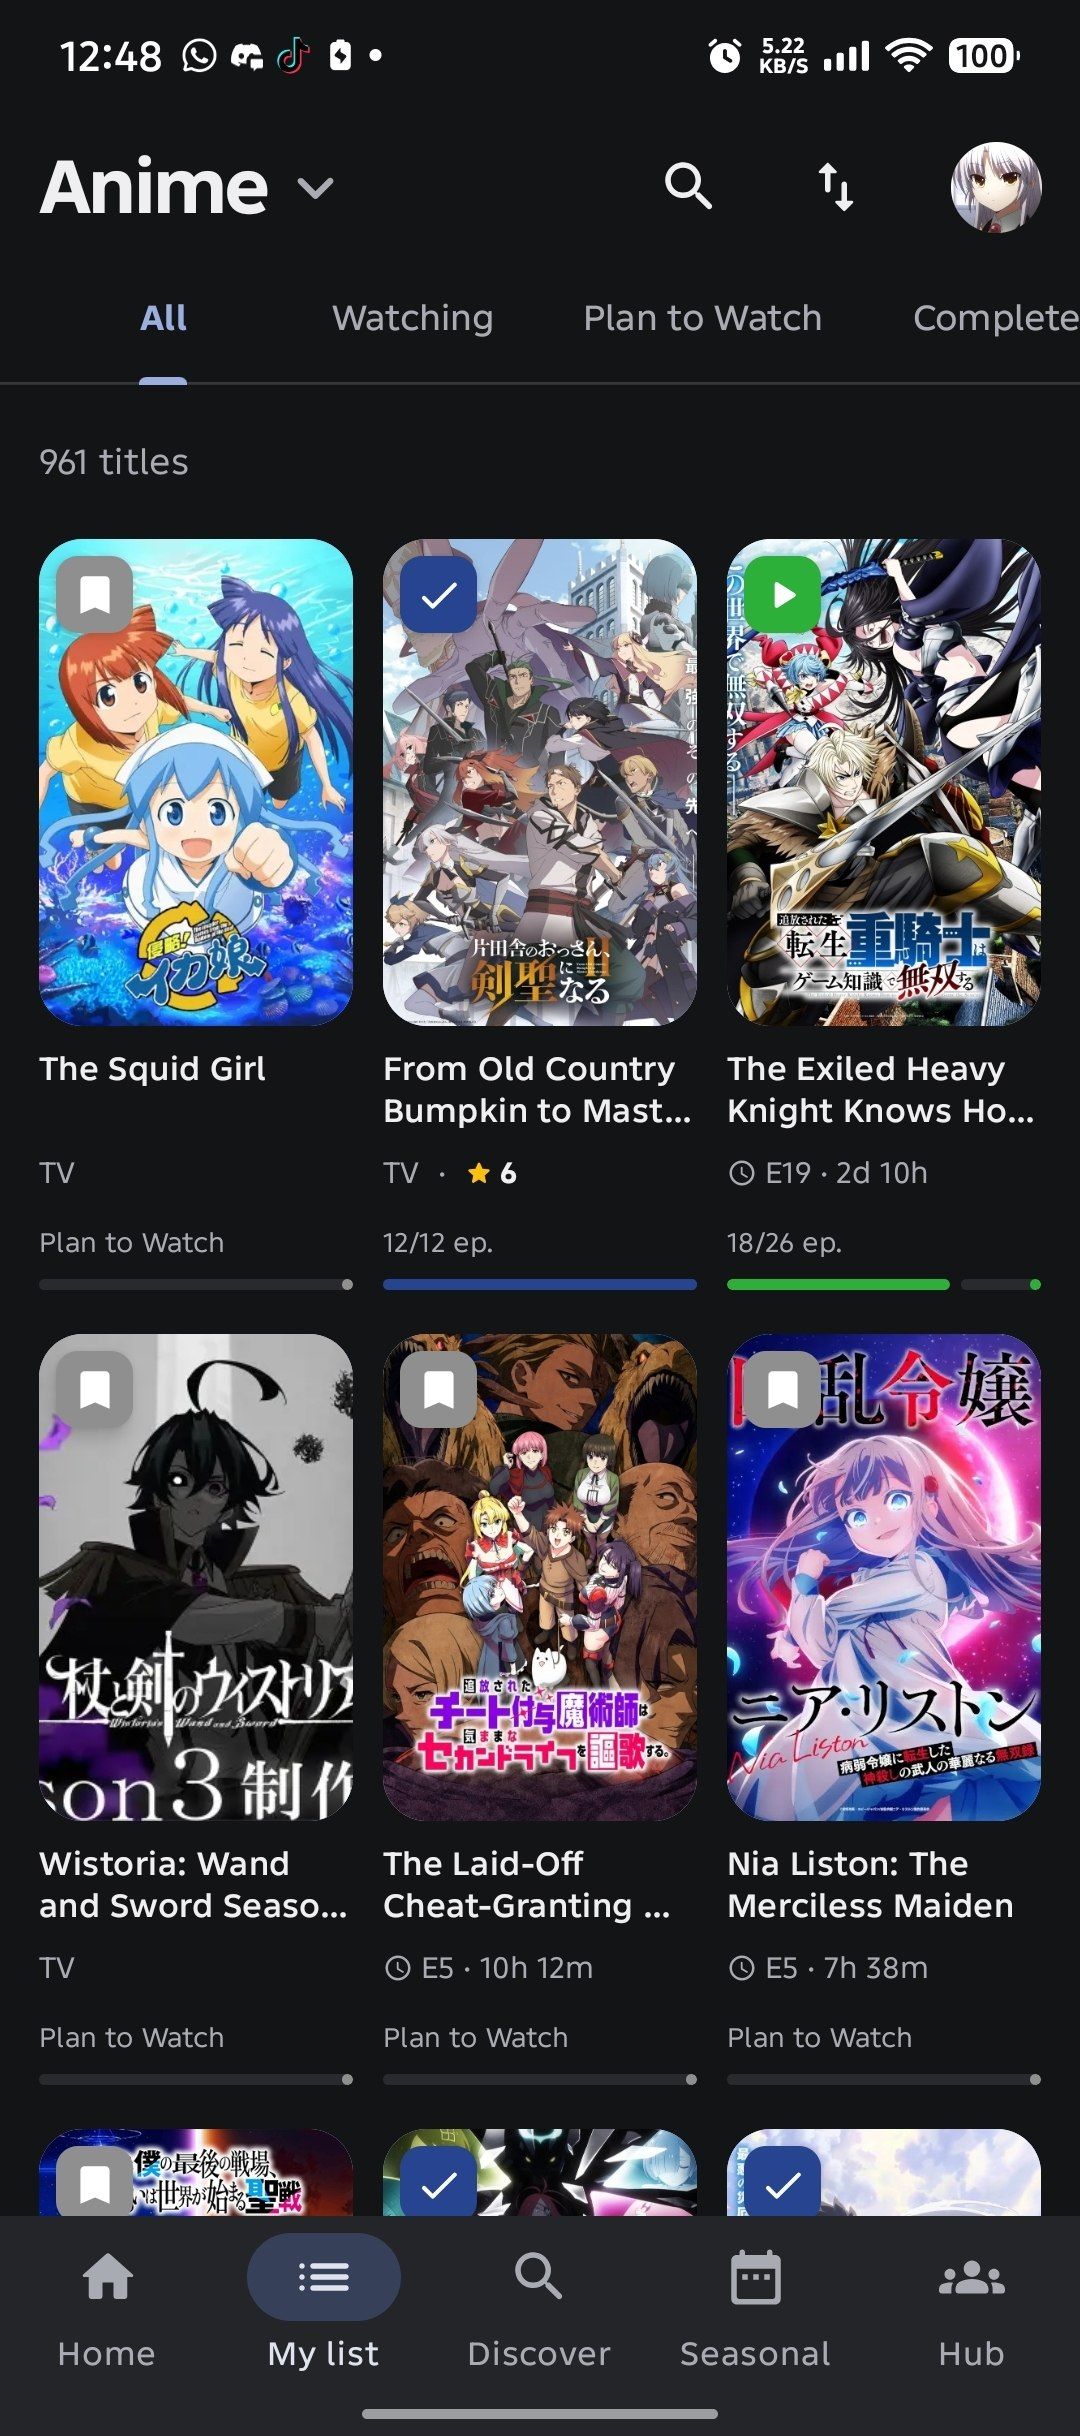
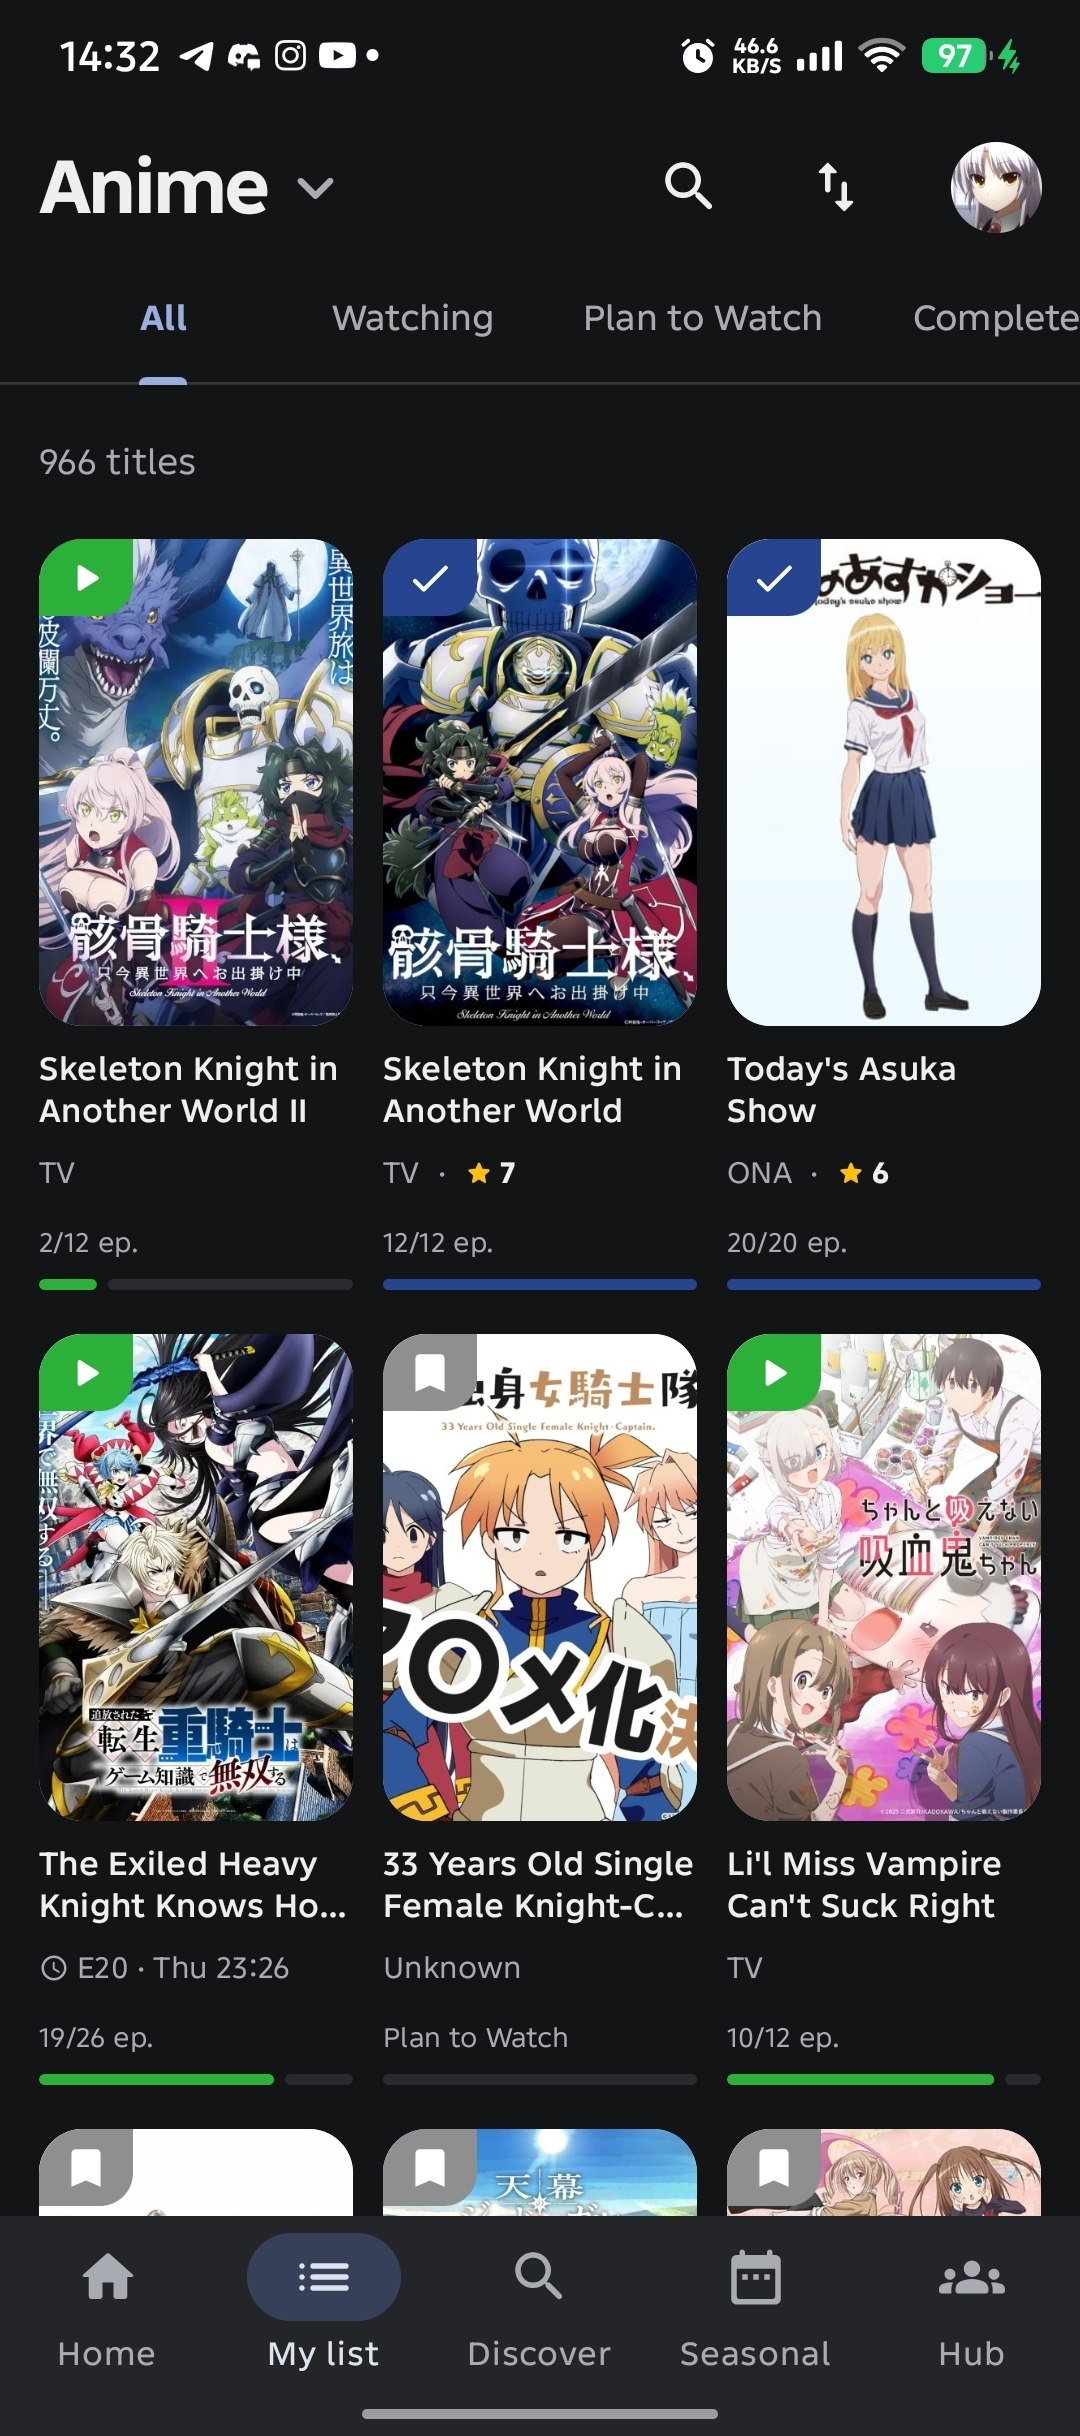
Updated README.md and index.html. Updated About page with new, usable links and added website option.

diff --git a/docs/index.html b/docs/index.html
@@ -226,13 +226,15 @@
     .p-season .ph-a   { --w:24.5; --x:69; --y:7; --r:6; --z:3; }
     /* 4 · Title details */
     .p-title .ring    { --c:var(--blue);   --w:62; --x:-8; --y:-6; }
-    .p-title .cookie  { --c:var(--blue);   --w:36; --x:8;  --y:18; }
-    .p-title .ph-a    { --w:27; --x:13; --y:7; --r:-4; --z:2; }
-    .p-title .st-a    { --x:2;  --y:12; --r:-9; --sb:var(--blue-soft); --sf:#0f1d45; }
-    .p-title .st-b    { --x:40; --y:9;  --r:7;  --sb:var(--mint);      --sf:#052a1d; }
-    .p-title .st-c    { --x:1;  --y:30; --r:6;  --sb:var(--butter);    --sf:#2c2000; }
-    .p-title .st-d    { --x:42; --y:27; --r:-7; --sb:var(--coral);     --sf:#3b0f05; }
-    .p-title .st-e    { --x:33; --y:43; --r:5;  --sb:var(--lav);       --sf:#24114f; }
+    .p-title .cookie  { --c:var(--blue);   --w:40; --x:6;  --y:16; }
+    .p-title .ph-a    { --w:23; --x:5;  --y:8;  --r:-5; --z:2; }
+    .p-title .ph-b    { --w:23; --x:27; --y:15; --r:4;  --z:3; }
+    .p-title .st-a    { --x:1;  --y:8;  --r:-9; --sb:var(--blue-soft); --sf:#0f1d45; }
+    .p-title .st-b    { --x:17; --y:2;  --r:6;  --sb:var(--mint);      --sf:#052a1d; }
+    .p-title .st-c    { --x:0;  --y:36; --r:6;  --sb:var(--butter);    --sf:#2c2000; }
+    .p-title .st-d    { --x:41; --y:6;  --r:-7; --sb:var(--coral);     --sf:#3b0f05; }
+    .p-title .st-e    { --x:11; --y:44; --r:5;  --sb:var(--lav);       --sf:#24114f; }
+    .p-title .st-f    { --x:43; --y:27; --r:-6; --sb:#fff;             --sf:var(--blue); }
     /* 5 · Community */
     .p-community .flower { --c:var(--butter); --w:44; --x:56; --y:-14; }
     .p-community .dot    { --c:var(--blue);   --w:13; --x:88; --y:-4; }
@@ -303,12 +305,14 @@
       .p-title { --sh:106; }
       .p-title .ring   { --w:120; --x:-10; --y:-12; }
       .p-title .cookie { --w:76; --x:12; --y:28; }
-      .p-title .ph-a   { --w:60; --x:20; --y:10; }
+      .p-title .ph-a   { --w:60; --x:36; --y:6;  --z:3; }
+      .p-title .ph-b   { --w:46; --x:-4; --y:18; --r:-4; --z:2; }
       .p-title .st-a   { --x:2;  --y:6; }
       .p-title .st-b   { --x:66; --y:12; }
-      .p-title .st-c   { --x:2;  --y:48; }
+      .p-title .st-c   { --x:2;  --y:56; }
       .p-title .st-d   { --x:72; --y:46; }
       .p-title .st-e   { display:none; }
+      .p-title .st-f   { --x:4;  --y:84; }
 
       .p-community { --sh:106; }
       .p-community .flower { --w:84; --x:18; --y:-16; }
@@ -440,16 +444,18 @@
             <span class="tag">Title details</span>
             <h3 id="p4">Every detail, one page.</h3>
             <p class="desc">Synopsis, characters, staff, reviews, recommendations and more. All this without jumping between pages!</p>
-            <ul class="chips"><li>Synopsis</li><li>Characters &amp; staff</li><li>Reviews</li><li>Recommendations</li></ul>
+            <ul class="chips"><li>Synopsis</li><li>Characters &amp; staff</li><li>Reviews</li><li>Recommendations</li><li>Relation pipelines</li></ul>
           </div>
           <div class="stage">
             <i class="shape ring"></i><i class="shape cookie"></i>
             <figure class="phone ph-a"><div class="screen"><img src="screenshots/title.jpg" width="720" height="1624" loading="lazy" decoding="async" alt="Kiko title page for Violet Evergarden with synopsis, links and tabs"></div></figure>
+            <figure class="phone ph-b"><div class="screen"><img src="screenshots/relation-pipeline.jpg" width="720" height="1624" loading="lazy" decoding="async" alt="Kiko Relation pipelines screen mapping how Fate/Zero connects to its prequels, side stories and alternative versions"></div></figure>
             <span class="sticker st-a" aria-hidden="true">Synopsis</span>
             <span class="sticker st-b" aria-hidden="true">Characters</span>
             <span class="sticker st-c" aria-hidden="true">Staff</span>
             <span class="sticker st-d" aria-hidden="true">Reviews</span>
             <span class="sticker st-e" aria-hidden="true">Recommendations</span>
+            <span class="sticker st-f" aria-hidden="true">Relations</span>
           </div>
         </article>
 
@@ -501,7 +507,7 @@
       <p>Download the latest APK, install it on your Android device, and sign in with your MyAnimeList account. Android may ask you to allow installs from your browser or file manager.</p>
       <div class="actions">
         <a class="button primary" id="dl-install" data-download href="https://github.com/SyHaqi/kiko/releases/latest">Get Kiko</a>
-        <a class="button secondary" href="https://discord.gg/KZYQHpDWKH">Join Discord</a>
+        <a class="button secondary" href="https://discord.gg/qytyH7efp6">Join Discord</a>
       </div>
       <div class="meta">Kiko is not affiliated with or endorsed by MyAnimeList.</div>
     </section>

diff --git a/app/src/main/java/com/kiko/tracker/ui/screens/HomeScreen.kt b/app/src/main/java/com/kiko/tracker/ui/screens/HomeScreen.kt
@@ -1380,7 +1380,6 @@ private fun statusMenuIcon(label: String): androidx.compose.ui.graphics.vector.I
                 Icon(Icons.Rounded.Star, null, tint = Color(0xFFFFC107), modifier = Modifier.size(if (roomy) 13.dp else 11.dp))
                 Text(item.myRating.toString(), color = c.ink, fontWeight = FontWeight.Bold, fontSize = if (roomy) 13.sp else 11.sp, modifier = Modifier.padding(start = 2.dp))
             }
-            if (item.timesRewatched > 0) RewatchTag(item.timesRewatched, fontSize = if (roomy) 11.sp else 10.sp, iconSize = if (roomy) 12.dp else 10.dp, modifier = Modifier.padding(start = if (roomy) 8.dp else 5.dp))
         }
         // Counter on top, bar underneath, as one block (same as list view); the bar is the bottom-most
         // element. It is always drawn, even for Plan to Watch/Read or an unknown total (empty track).
@@ -1600,19 +1599,6 @@ private val IncrementPillSize = DpSize(34.dp, 34.dp)
     }
 }
 
-// "Has been rewatched / reread" tag, shown beside the score: a small tonal chip with a replay icon, plus the count
-// only when it is more than one.
-@Composable private fun RewatchTag(times: Int, fontSize: androidx.compose.ui.unit.TextUnit = 11.sp, iconSize: androidx.compose.ui.unit.Dp = 12.dp, modifier: Modifier = Modifier) {
-    val c = LocalKikoColors.current
-    Row(
-        modifier.clip(RoundedCornerShape(kikoCorner(6.dp))).background(c.primaryContainer).padding(horizontal = 5.dp, vertical = 1.dp),
-        verticalAlignment = Alignment.CenterVertically,
-    ) {
-        Icon(Icons.Rounded.Replay, null, tint = c.onPrimaryContainer, modifier = Modifier.size(iconSize))
-        if (times > 1) Text(times.toString(), color = c.onPrimaryContainer, fontWeight = FontWeight.Bold, fontSize = fontSize, lineHeight = fontSize, modifier = Modifier.padding(start = 2.dp))
-    }
-}
-
 // Shared media row (My List, Profile lists). The text column is exactly as tall as
 // the cover. Title (1-2 lines), the format line, and (while airing) an
 // "Ep. N airs on ..." row are pinned to the top; counter -> progress bar pinned
@@ -1686,7 +1672,6 @@ private val IncrementPillSize = DpSize(34.dp, 34.dp)
                             Icon(Icons.Rounded.Star, null, tint = Color(0xFFFFC107), modifier = Modifier.size(12.dp))
                             Text(item.myRating.toString(), color = c.ink, fontWeight = FontWeight.Bold, fontSize = 13.sp, modifier = Modifier.padding(start = 3.dp))
                         }
-                        if (item.timesRewatched > 0) RewatchTag(item.timesRewatched, modifier = Modifier.padding(start = 8.dp))
                     }
                     // Currently airing / not yet aired: the status gets its own row under the format.
                     timer?.let { label ->
@@ -1699,7 +1684,6 @@ private val IncrementPillSize = DpSize(34.dp, 34.dp)
                                 Icon(Icons.Rounded.Star, null, tint = Color(0xFFFFC107), modifier = Modifier.size(12.dp))
                                 Text(item.myRating.toString(), color = c.ink, fontWeight = FontWeight.Bold, fontSize = 13.sp, modifier = Modifier.padding(start = 3.dp))
                             }
-                            if (timerReplacesFormat && item.timesRewatched > 0) RewatchTag(item.timesRewatched, modifier = Modifier.padding(start = 8.dp))
                         }
                     }
                 }
@@ -1731,7 +1715,7 @@ private val IncrementPillSize = DpSize(34.dp, 34.dp)
 // My List row (list view only). The grid tile (ListGridCard) and the Profile / Friend lists (ListRow) are untouched.
 // Minimal Material 3 Expressive take on the row: flat, no chips, one muted meta line, one tonal action.
 //   cover | title (1-2 lines)
-//         | meta line: "TV · ★ 8" (or the air timer while airing / not yet aired / behind), replay icon if rewatched
+//         | meta line: "TV · ★ 8" (or the air timer while airing / not yet aired / behind)
 //         | counter + thin flat progress bar ........ [+] tonal squircle button
 // The text column is exactly as tall as the cover; title + meta sit at the top, counter + bar + button at the
 // bottom, so the bar and the button always end on the cover's bottom edge.

diff --git a/app/src/main/java/com/kiko/tracker/ui/screens/AboutScreen.kt b/app/src/main/java/com/kiko/tracker/ui/screens/AboutScreen.kt
@@ -6,7 +6,6 @@ import com.kiko.tracker.ui.components.KikoHeader
 import com.kiko.tracker.ui.components.KikoLoadingIndicator
 import com.kiko.tracker.ui.components.headerEdgeStart
 import com.kiko.tracker.ui.components.headerTitleStart
-import android.net.Uri
 import androidx.activity.compose.BackHandler
 import androidx.compose.foundation.Canvas
 import androidx.compose.foundation.Image
@@ -41,7 +40,6 @@ import androidx.compose.ui.geometry.Offset
 import androidx.compose.ui.text.style.TextOverflow
 import androidx.compose.ui.unit.dp
 import androidx.compose.ui.unit.sp
-import androidx.browser.customtabs.CustomTabsIntent
 import kotlin.math.roundToInt
 import kotlin.math.sqrt
 import com.kiko.tracker.BuildConfig
@@ -56,6 +54,7 @@ import com.kiko.tracker.ui.theme.kikoClickable
 import com.kiko.tracker.ui.theme.kikoCorner
 import com.kiko.tracker.ui.theme.kikoPillShape
 import com.kiko.tracker.util.AppUpdateInfo
+import com.kiko.tracker.util.openInBrowser
 
 @Composable fun AboutScreen(
     onBack: () -> Unit,
@@ -113,12 +112,16 @@ import com.kiko.tracker.util.AppUpdateInfo
                 Spacer(Modifier.height(28.dp))
                 // Community links row
                 Row(Modifier.fillMaxWidth(), horizontalArrangement = Arrangement.Center) {
-                    IconButton(onClick = { CustomTabsIntent.Builder().build().launchUrl(context, Uri.parse("https://github.com/SyHaqi/kiko")) }, modifier = Modifier.size(50.dp).clip(RoundedCornerShape(kikoCorner(16.dp))).background(c.surfaceContainerHigh)) {
+                    IconButton(onClick = { context.openInBrowser("https://github.com/SyHaqi/kiko") }, modifier = Modifier.size(50.dp).clip(RoundedCornerShape(kikoCorner(16.dp))).background(c.surfaceContainerHigh)) {
                         Icon(painterResource(R.drawable.ic_github), "GitHub", tint = c.ink)
                     }
                     Spacer(Modifier.width(24.dp))
-                    IconButton(onClick = { CustomTabsIntent.Builder().build().launchUrl(context, Uri.parse("https://discord.gg/KZYQHpDWKH")) }, modifier = Modifier.size(50.dp).clip(RoundedCornerShape(kikoCorner(16.dp))).background(c.surfaceContainerHigh)) {
+                    IconButton(onClick = { context.openInBrowser("https://discord.gg/qytyH7efp6") }, modifier = Modifier.size(50.dp).clip(RoundedCornerShape(kikoCorner(16.dp))).background(c.surfaceContainerHigh)) {
                         Icon(painterResource(R.drawable.ic_discord), "Discord", tint = c.ink)
+                    }
+                    Spacer(Modifier.width(24.dp))
+                    IconButton(onClick = { context.openInBrowser("https://syhaqi.github.io/kiko/") }, modifier = Modifier.size(50.dp).clip(RoundedCornerShape(kikoCorner(16.dp))).background(c.surfaceContainerHigh)) {
+                        Icon(Icons.Rounded.Language, "Website", tint = c.ink)
                     }
                 }
                 Spacer(Modifier.height(24.dp))

diff --git a/README.md b/README.md
@@ -13,7 +13,7 @@ Track anime & manga, discover new titles, and stay close to the MyAnimeList comm
 <!-- Row 1: main buttons -->
 [![Download](https://img.shields.io/github/v/release/SyHaqi/kiko?style=for-the-badge&label=Download&logo=android&logoColor=white&labelColor=2E51A2&color=1d3470)](https://github.com/SyHaqi/kiko/releases/latest)
 [![Website](https://img.shields.io/badge/Website-syhaqi.github.io%2Fkiko-ffe18a?style=for-the-badge&logo=googlechrome&logoColor=2c2000&labelColor=f2c94c)](https://syhaqi.github.io/kiko/)
-[![Discord](https://img.shields.io/badge/Discord-Join_the_server-5865F2?style=for-the-badge&logo=discord&logoColor=white)](https://discord.gg/KZYQHpDWKH)
+[![Discord](https://img.shields.io/badge/Discord-Join_the_server-5865F2?style=for-the-badge&logo=discord&logoColor=white)](https://discord.gg/qytyH7efp6)
 
 <!-- Row 2: live stats, pastel palette from the website -->
 [![Total downloads](https://img.shields.io/github/downloads/SyHaqi/kiko/total?style=for-the-badge&label=Downloads&logo=github&logoColor=052a1d&labelColor=8fd9bb&color=bff0dc)](https://github.com/SyHaqi/kiko/releases)
@@ -137,7 +137,7 @@ Copyright © 2026 Kiko contributors.
 
 ## 💬 Community
 
-Questions, feedback, or bug reports? [Open an issue](https://github.com/SyHaqi/kiko/issues) or join the [Discord](https://discord.gg/KZYQHpDWKH).
+Questions, feedback, or bug reports? [Open an issue](https://github.com/SyHaqi/kiko/issues) or join the [Discord](https://discord.gg/qytyH7efp6).
 
 <div align="center">
 
